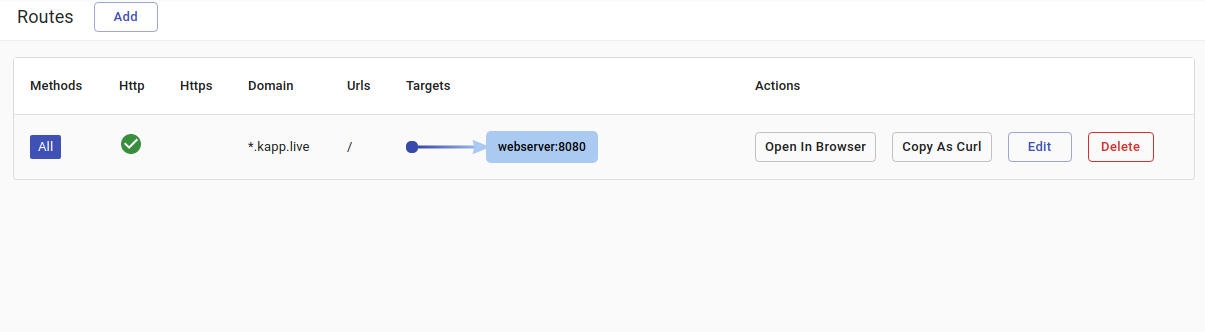
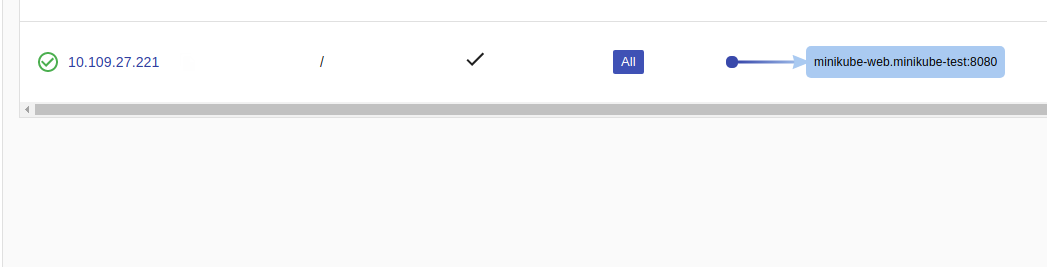
updated Hello Kalm instructions based on recent feedback

diff --git a/docs/tut-hello.md b/docs/tut-hello.md
@@ -94,7 +94,6 @@ Click **Deploy** to apply changes.
 During the deployment you may notice that the number of pods temporarily exceeds three. Kalm by default uses `rolling update`, which means pods are incrementally added and removed one by one, resulting in zero downtime.
 :::
 
-
 ![rolling updates](assets/rolling-update.png)
 
 <br />
@@ -103,9 +102,13 @@ Now that the port is open, let's add a route. Click **Routes** in the navigation
 
 ![add route](assets/add-route.png)
 
-Let's enter "\*" for host, which allows us to visit directly via IP address.
+The cluster ip address should be displayed under the Hosts field. Enter this address in the **Hosts** field.
 
-![specify host](assets/specify-host.png)
+![specify host](assets/specify-ip.png)
+
+:::note
+For minikube, if no ip is shown, run `minikube tunnel` and refresh the page.
+:::
 
 In the _Targets_ section, select our _"webserver"_ component from the dropdown.
 
@@ -113,11 +116,11 @@ In the _Targets_ section, select our _"webserver"_ component from the dropdown.
 
 Click **Update Route**. Our route is now completely setup.
 
-Click **Open in Browser** to check it out.
+There should be a new entry in the Routes table. Click on the link in the _Domain_ column to open our app in a new browser tab.
 
 ![open in browser](assets/open-in-browser.png)
 
-Great, our application is working!
+Great, our nginx webserver app is working!
 
 ![nginx success](assets/nginx-success.png)
 

diff --git a/versioned_docs/version-v0.1.0-alpha.5/tut-hello.md b/versioned_docs/version-v0.1.0-alpha.5/tut-hello.md
@@ -94,7 +94,6 @@ Click **Deploy** to apply changes.
 During the deployment you may notice that the number of pods temporarily exceeds three. Kalm by default uses `rolling update`, which means pods are incrementally added and removed one by one, resulting in zero downtime.
 :::
 
-
 ![rolling updates](assets/rolling-update.png)
 
 <br />
@@ -103,9 +102,13 @@ Now that the port is open, let's add a route. Click **Routes** in the navigation
 
 ![add route](assets/add-route.png)
 
-Let's enter "\*" for host, which allows us to visit directly via IP address.
+The cluster ip address should be displayed under the Hosts field. Enter this address in the **Hosts** field.
 
-![specify host](assets/specify-host.png)
+![specify host](assets/specify-ip.png)
+
+:::note
+For minikube, if no ip is shown, run `minikube tunnel` and refresh the page.
+:::
 
 In the _Targets_ section, select our _"webserver"_ component from the dropdown.
 
@@ -113,11 +116,11 @@ In the _Targets_ section, select our _"webserver"_ component from the dropdown.
 
 Click **Update Route**. Our route is now completely setup.
 
-Click **Open in Browser** to check it out.
+There should be a new entry in the Routes table. Click on the link in the _Domain_ column to open our app in a new browser tab.
 
 ![open in browser](assets/open-in-browser.png)
 
-Great, our application is working!
+Great, our nginx webserver app is working!
 
 ![nginx success](assets/nginx-success.png)
 
